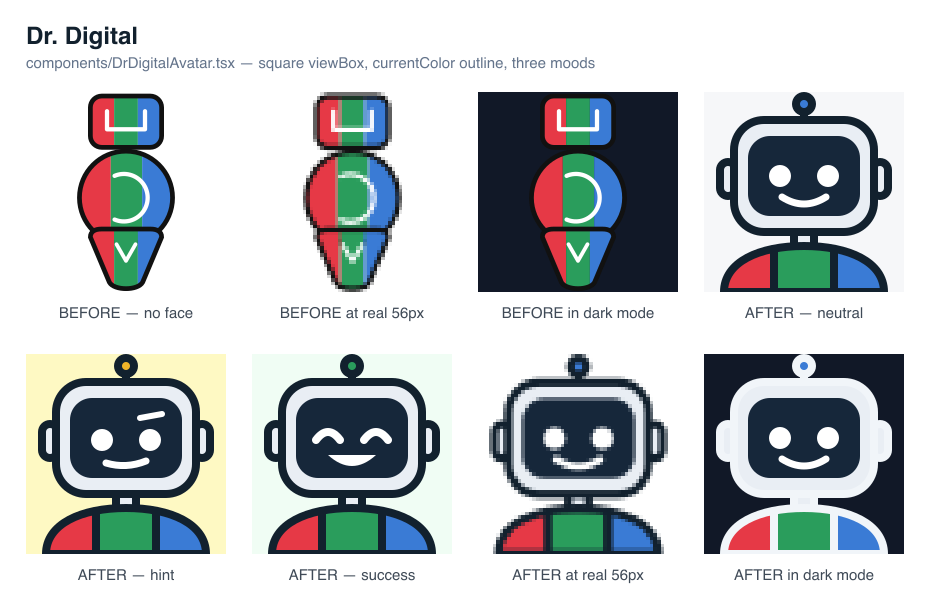
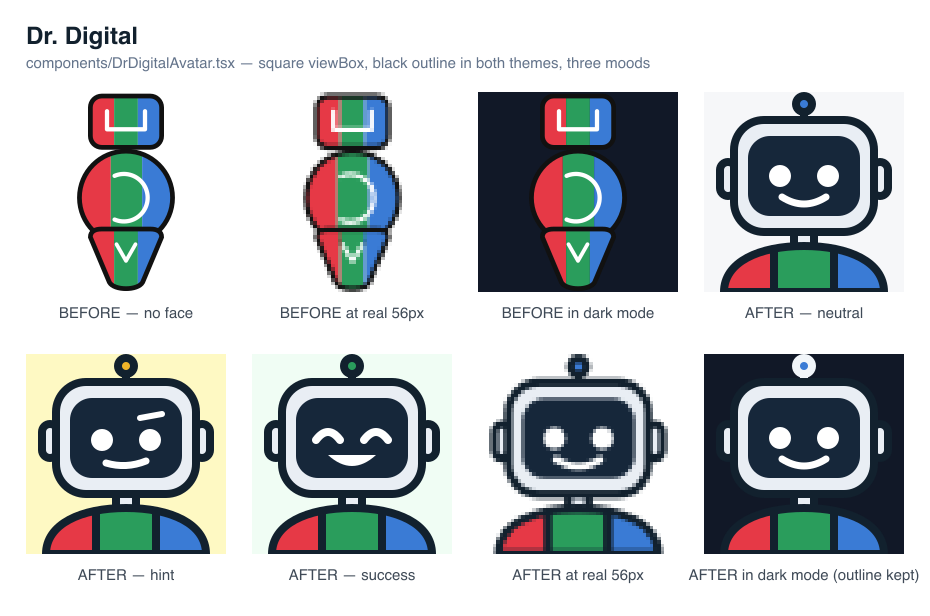
Dr. Digital keeps his outline in the dark, and stops hogging the column
Two follow-ups on the mascot.

The black outline is back in dark mode. Making it currentColor was the right
fix for the *old* art, whose shapes were filled with saturated red/green/blue
and defined by nothing but the rim -- lose the rim on a dark bubble and you
lose the drawing. This shell is filled #e9eef4, which changes the problem: a
black rim on a light shell is high contrast from the inside regardless of
what is behind it, and the silhouette now comes from light-shell-against-
dark-bubble. So he looks like the same character in both themes.

The antenna is the exception, and it earned it: its stalk and bulb rim are
the only strokes drawn against the page rather than on top of a fill. Held to
black, the stalk vanishes on a dark bubble and leaves a colored dot floating
above his head with no visible stem -- rendered that variant and looked at it
before keeping the exception.

The bubble no longer wastes a column of itself. The avatar sat beside the
message in a flex items-start row, so on a four-bullet lesson a 56px-wide
strip ran dead down the left for the entire height of the text, and the
message paid twice: once in the empty area, again in a reading measure so
narrow that "Two skills to practice here" needed two lines. Avatar and name
now share one short header row and the text takes the full width.

Measured on Unit 1's first lesson, old vs new: bubble 521px -> 506px tall,
text measure 424px -> 492px (+16%), dead gutter ~24,250px^2 -> 0. The reading
[…]

Changed region(s): [[0.7484, 0.586, 0.9978, 0.9562], [0.4054, 0.0925, 0.7172, 0.1234], [0.9355, 0.6477, 0.9667, 0.7711]]

diff --git a/components/DrDigitalAvatar.tsx b/components/DrDigitalAvatar.tsx
@@ -17,10 +17,23 @@ interface DrDigitalAvatarProps {
  *    a 56px box — small enough that the whole character was an unreadable smear of
  *    red, green and blue. Head-and-shoulders at 1:1 fills the box it was given.
  *
- * 2. **The outline is `currentColor`.** The old art stroked `#111` on a bubble
- *    whose dark-mode background is `#111827`. In dark mode the outline simply
- *    vanished and the shapes floated apart. The colors below are set on the `<svg>`
- *    so it is correct wherever it is dropped, and a caller's `className` still wins.
+ * 2. **The outline is black in both themes, except on the antenna.** The old art
+ *    stroked `#111` on a bubble whose dark-mode background is `#111827`, and in
+ *    dark mode the outline vanished and the shapes floated apart. That was a
+ *    consequence of filling the shapes with saturated red/green/blue: the rim was
+ *    the only thing separating them, so losing it lost the drawing.
+ *
+ *    This shell is filled `#e9eef4`, which changes the problem. A black rim on a
+ *    light shell is high contrast from the inside no matter what is behind it, and
+ *    the silhouette comes from light-shell-against-dark-bubble rather than from the
+ *    rim. So he keeps his black outline in dark mode and looks like the same
+ *    character in both themes.
+ *
+ *    The antenna is the exception, and the reason is worth keeping: its stalk and
+ *    bulb rim are the only strokes drawn on the page background instead of on top
+ *    of a fill. Black there really would disappear on a dark bubble, leaving a
+ *    colored dot floating above the head with no visible stem. Those two use
+ *    `currentColor`, which the `<svg>`'s own classes resolve per theme.
  *
  * 3. **He has a face.** The old art's aria-label promised "a friendly striped
  *    robot" and drew three abstract blobs with no eyes. This is a course for people
@@ -51,12 +64,17 @@ export default function DrDigitalAvatar({ className, mood = "neutral" }: DrDigit
         </clipPath>
       </defs>
 
-      {/* Shell: one group so the whole robot shares one outline weight. */}
+      {/* The antenna, stroked in currentColor because it is the only part drawn
+          against the page rather than against a fill of its own. The bulb is the
+          quietest place to carry mood — it echoes the speech bubble's own border
+          color without restyling his face. */}
       <g stroke="currentColor" strokeWidth={8} strokeLinejoin="round">
         <line x1="100" y1="30" x2="100" y2="18" strokeLinecap="round" />
-        {/* The antenna light is the quietest place to carry mood — it echoes the
-            speech bubble's own border color without restyling his face. */}
         <circle cx="100" cy="12" r="8" fill={BULB[mood]} />
+      </g>
+
+      {/* Shell: one group so the whole robot shares one outline weight. */}
+      <g stroke={INK} strokeWidth={8} strokeLinejoin="round">
         <rect x="16" y="70" width="16" height="34" rx="8" fill="#e9eef4" />
         <rect x="168" y="70" width="16" height="34" rx="8" fill="#e9eef4" />
         <rect x="90" y="134" width="20" height="22" fill="#e9eef4" />
@@ -76,6 +94,9 @@ export default function DrDigitalAvatar({ className, mood = "neutral" }: DrDigit
     </svg>
   );
 }
+
+/** The outline. Fixed, not `currentColor` — see note 2 in the header. */
+const INK = "#12212e";
 
 const BULB: Record<DrDigitalMood, string> = {
   neutral: "#3a7bd5",

diff --git a/components/DrDigital.tsx b/components/DrDigital.tsx
@@ -79,16 +79,31 @@ function MessageBody({ message }: { message: string }) {
   );
 }
 
+/**
+ * Avatar and name on one short line, message full width underneath.
+ *
+ * The avatar used to sit *beside* the message in a `flex items-start` row, which
+ * left a 56px column of dead space running down the left for the whole height of
+ * the text — on a four-bullet lesson that is a quarter of the bubble empty, and
+ * the message paid for it twice: once in the wasted area, and again in a reading
+ * measure so narrow that "Two skills to practice here" wrapped onto two lines.
+ *
+ * A header row costs one row of height and gives the text the full width back.
+ * The avatar is deliberately smaller here than the 56px it was — it reads fine
+ * down to 40px, and a shorter header row is the whole point of the change.
+ */
 export default function DrDigital({ message, mood = "neutral" }: DrDigitalProps) {
   return (
     <div
       key={mood}
       data-mood={mood}
-      className={`flex gap-3 items-start border-2 rounded p-4 animate-pop-in ${MOOD_STYLES[mood]}`}
+      className={`border-2 rounded p-4 animate-pop-in ${MOOD_STYLES[mood]}`}
     >
-      <DrDigitalAvatar className="w-14 h-14 shrink-0" mood={mood} />
-      <div>
+      <div className="flex items-center gap-2">
+        <DrDigitalAvatar className="w-10 h-10 shrink-0" mood={mood} />
         <p className="text-base font-semibold">Dr. Digital</p>
+      </div>
+      <div className="mt-2">
         <MessageBody message={message} />
       </div>
     </div>
